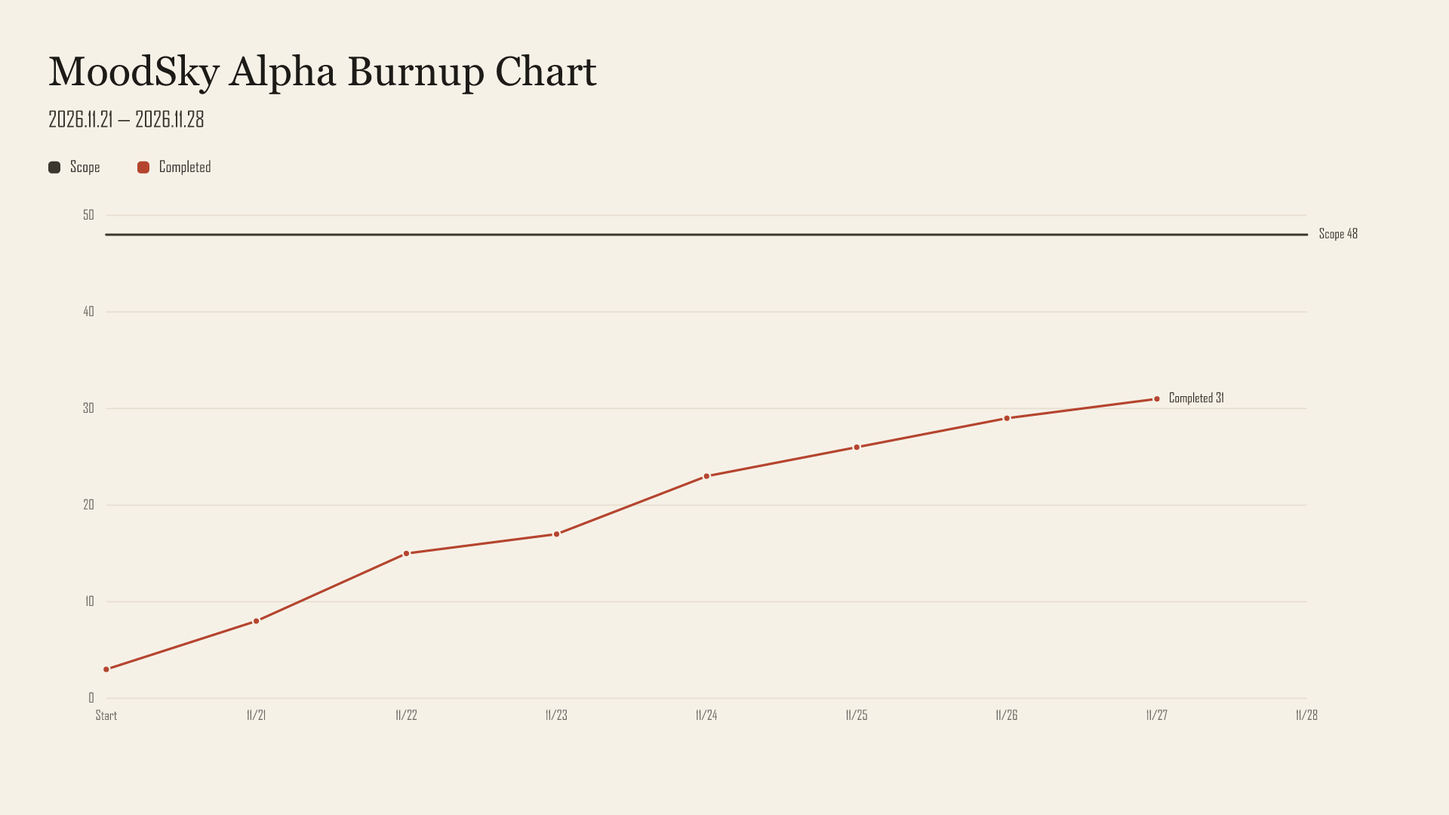
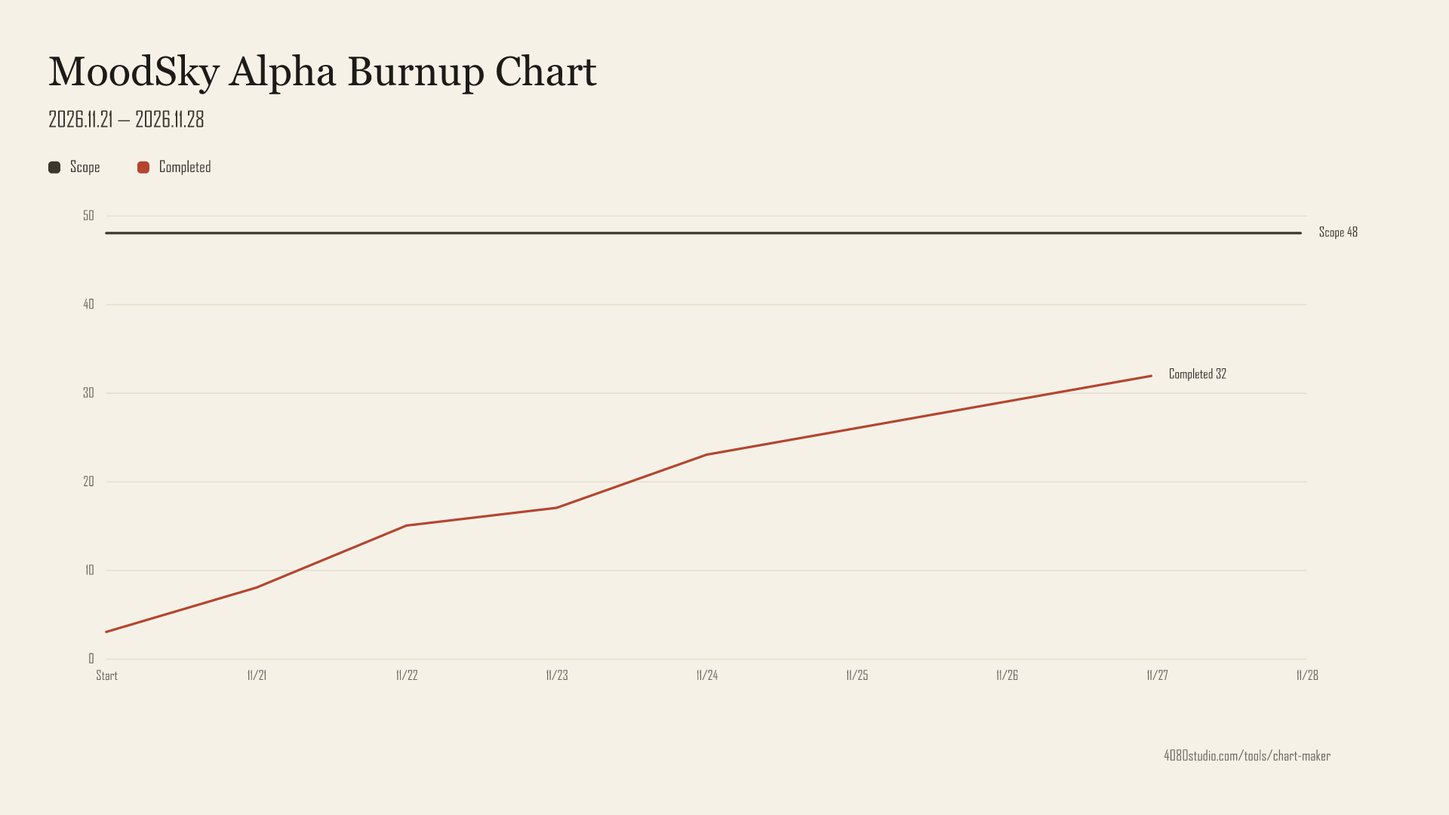
docs(alpha-h): 按 32/48 更新 C4 燃尽图、燃起图及对应文稿 (#268)

diff --git a/docs/alpha/xiang-hong/c4-20261127/log4-en.md b/docs/alpha/xiang-hong/c4-20261127/log4-en.md
@@ -4,7 +4,7 @@
 | ---------------- | ------------------------------------------------------------------------------------------------------------------------------------------------------------------------------------------ |
 | Course           | [2601_FZU-MU_SE](https://bbs.csdn.net/forums/2601_MU_SE_FZU)                                                                                                                               |
 | Assignment       | [Fifth Assignment — Alpha Sprint](https://bbs.csdn.net/topics/620611106)                                                                                                                   |
-| Reporting period | November 27–28, 2026; observations recorded through 2026-11-27T13:30:00+08:00                                                                                                              |
+| Reporting period | November 27–28, 2026; observations recorded through 2026-11-27T19:35:00+08:00                                                                                                              |
 | Objective        | Freeze a reproducible candidate, reconcile submitted evidence and prepare release and classroom handoffs                                                                                   |
 | References       | [Repository](https://github.com/HX-Jan/MoodSky), [frozen source](https://github.com/HX-Jan/MoodSky/tree/00c59a1af7ccd27e9c2ae4bc77f6b65fc66b117c), [release decision](release-decision.md) |
 
@@ -30,13 +30,13 @@ The client from this source was uploaded through the official WeChat Developer T
 
 ## 2. Evidence reconciliation and integration
 
-| Member / source                                                   | Concrete result                                                                                                                                                         | Remaining boundary                                                                                                                 |
-| ----------------------------------------------------------------- | ----------------------------------------------------------------------------------------------------------------------------------------------------------------------- | ---------------------------------------------------------------------------------------------------------------------------------- |
-| Junhan Huang, [#257](https://github.com/HX-Jan/MoodSky/pull/257)  | Fourteen campus regression rows, pagination and export/cleanup cross-checks; current maintainer rerun retains A=0, B=1 and public-place count=1 after completed cleanup | Caller review and target-cloud validation remain separate                                                                          |
-| Qizhen Cai, [#260](https://github.com/HX-Jan/MoodSky/pull/260)    | A personally operated November 26 local A/B run and fourteen cleanup scenarios, including eleven batches to `completed`                                                 | Local snapshot-to-remote mapping and final frozen-candidate opinion are still needed                                               |
-| Yuen Lin, [#264](https://github.com/HX-Jan/MoodSky/pull/264)      | 1730 tests, A/B16, XY64 and an independently assembled candidate from 00c59a1                                                                                           | Submitted as a precheck; final freeze confirmation and the completed testing article are still needed                              |
-| Qinghan Zhang, [#265](https://github.com/HX-Jan/MoodSky/pull/265) | C2/C3 page/service and boundary matrices, 94 tests, ten original native images and two campus round trips from 00c59a1                                                  | The preview and member package use `enabled`; the frozen candidate is `closed`, so final same-mode C4 confirmation is still needed |
-| Jiawei Fang, [#254](https://github.com/HX-Jan/MoodSky/pull/254)   | Early task/account regression, external checklist and summary draft                                                                                                     | The PR remains Draft; final same-build confirmation is missing                                                                     |
+| Member / source                                                   | Concrete result                                                                                                                                                                                | Remaining boundary                                                                                                                 |
+| ----------------------------------------------------------------- | ---------------------------------------------------------------------------------------------------------------------------------------------------------------------------------------------- | ---------------------------------------------------------------------------------------------------------------------------------- |
+| Junhan Huang, [#257](https://github.com/HX-Jan/MoodSky/pull/257)  | Fourteen campus regression rows, pagination and export/cleanup cross-checks; current maintainer rerun retains A=0, B=1 and public-place count=1 after completed cleanup                        | Caller review and target-cloud validation remain separate                                                                          |
+| Qizhen Cai, [#260](https://github.com/HX-Jan/MoodSky/pull/260)    | A personally operated November 26 local A/B run and fourteen cleanup scenarios, including eleven batches to `completed`                                                                        | Local snapshot-to-remote mapping and final frozen-candidate opinion are still needed                                               |
+| Yuen Lin, [#264](https://github.com/HX-Jan/MoodSky/pull/264)      | 1730 tests, A/B16, XY64 and an independently assembled candidate from 00c59a1                                                                                                                  | Submitted as a precheck; final freeze confirmation and the completed testing article are still needed                              |
+| Qinghan Zhang, [#265](https://github.com/HX-Jan/MoodSky/pull/265) | C2/C3 page/service and boundary matrices, 94 tests, ten original native images and two campus round trips from 00c59a1                                                                         | The preview and member package use `enabled`; the frozen candidate is `closed`, so final same-mode C4 confirmation is still needed |
+| Jiawei Fang, [#254](https://github.com/HX-Jan/MoodSky/pull/254)   | 40 targeted tests and 1733 full-suite recheck on frozen `00c59a1/closed`, external checklist and summary draft (`ee86e6c4`, integrated via [#267](https://github.com/HX-Jan/MoodSky/pull/267)) | Qizhen/Cai independent reviews, Jiawei's personal C2–C4 hours/confirmation and external cloud/device checks remain pending         |
 
 The maintainer found a reporting defect in the campus evidence generator: some cases were labelled PASS before their outcome was asserted, and cleanup did not require the terminal state. The generator now checks each recorded result, the exact permission refusal and completed cleanup. Three negative regression tests reject successful guest access, leaked account history or incorrect pagination, and incomplete cleanup or the wrong error code. It also records its actual generation time and source instead of a fixed historical date. Member logs remain attributed to their original executions.
 
@@ -66,15 +66,15 @@ For C4, the owner's candidate manifest matches Yuen's independently submitted ma
 
 ![Figure 5. MoodSky Alpha burnup chart](images/01-burnup.png)
 
-**Figure 5.** The scope is 48 period deliverables. Complete submissions are counted on their actual submission date, including early work; waiting for review does not remove a submitted result. Three deliveries were already submitted on November 20. November 21 adds five and November 22 adds seven. The cumulative total is 31 at this cutoff; November 28 actual values are blank.
+**Figure 5.** The scope is 48 period deliverables. Complete submissions are counted on their actual submission date, including early work; waiting for review does not remove a submitted result. Three deliveries were already submitted on November 20. November 21 adds five and November 22 adds seven. The cumulative total is 32 at this cutoff; November 28 actual values are blank.
 
 <!-- FIGURE 6: Insert images/04-burndown.png here. -->
 
 ![Figure 6. MoodSky Alpha burndown chart](images/04-burndown.png)
 
-**Figure 6.** Remaining deliverables equal 48 minus complete submissions, giving 17 at the current cutoff. The dashed ideal line is a reference schedule. Both charts use the same dated submission ledger and were exported from 4080 Studio; their interiors contain only chart labels, dates and statistics.
+**Figure 6.** Remaining deliverables equal 48 minus complete submissions, giving 16 at the current cutoff. The dashed ideal line is a reference schedule. Both charts use the same dated submission ledger and were exported from 4080 Studio; their interiors contain only chart labels, dates and statistics.
 
-Cai's cleanup evidence is one additional complete submission, received in [#260](https://github.com/HX-Jan/MoodSky/pull/260) at **16:27:09 Beijing time on November 26**. Two further complete submissions are Qinghan's C2 and C3 results, received in [#265](https://github.com/HX-Jan/MoodSky/pull/265) at **13:18:07 Beijing time on November 27**. These results are counted on November 27, rather than their planned period dates. Qinghan's C4 material stays partial because it uses an enabled-mode candidate instead of the frozen closed-mode package. Cai's folder is named C4, but its content supplies the previously missing C3 cleanup result, so it is counted once under C3. The earlier execution time is not substituted for the submission receipt. Yuen's new precheck and the current maintainer preparation are recorded as partial deliveries until their remaining deliverables are supplied. The twenty-four independent acceptance units use a separate ledger.
+Cai's cleanup evidence is one additional complete submission, received in [#260](https://github.com/HX-Jan/MoodSky/pull/260) at **16:27:09 Beijing time on November 26**. Three complete submissions are recorded on November 27: Qinghan's C2 and C3 results received in [#265](https://github.com/HX-Jan/MoodSky/pull/265) at **13:18:07 Beijing time**, and Jiawei's C4-JF frozen-candidate recheck (`ee86e6c4`, integrated via [#267](https://github.com/HX-Jan/MoodSky/pull/267)) received in [#254](https://github.com/HX-Jan/MoodSky/pull/254) at **18:15:33 Beijing time**. These results are counted on their actual receipt dates rather than their planned period dates. Qinghan's C4 material stays partial because it uses an enabled-mode candidate instead of the frozen closed-mode package. Cai's folder is named C4, but its content supplies the previously missing C3 cleanup result, so it is counted once under C3. The earlier execution time is not substituted for the submission receipt. Yuen's new precheck and the current maintainer preparation are recorded as partial deliveries until their remaining deliverables are supplied. The twenty-four independent acceptance units use a separate ledger.
 
 ## 5. Release conditions and next steps
 

diff --git a/docs/alpha/xiang-hong/c4-20261127/summary-en.md b/docs/alpha/xiang-hong/c4-20261127/summary-en.md
@@ -15,7 +15,7 @@ The sprint runs from November 21 to November 28. The plan assigns twelve members
 
 The current product candidate is 0.5.3 / `00c59a1af7ccd27e9c2ae4bc77f6b65fc66b117c`. It retains seven weather choices, private record/review flows, right-side campus selection and explicit task completion. The candidate keeps task mode closed and new campus writes paused. After phone-number capability proved unavailable for this app, WeChat identity login with first-use registration became the selected route. Explicit empty-account re-registration preserves the deletion boundary.
 
-At this cutoff, 31 of the 48 period deliverables have been submitted completely, leaving 17 incomplete or missing. This measures submitted artifacts, not independent acceptance or production availability. Early submissions are assigned to their actual dates. The separate acceptance ledger retains real reviewer decisions and external gaps.
+At this cutoff, 32 of the 48 period deliverables have been submitted completely, leaving 16 incomplete or missing. This measures submitted artifacts, not independent acceptance or production availability. Early submissions are assigned to their actual dates. The separate acceptance ledger retains real reviewer decisions and external gaps.
 
 ![MoodSky Alpha burnup chart](images/01-burnup.png)
 
@@ -31,20 +31,20 @@ The independently assembled C4 manifest matches the owner's package. The client 
 
 The table below records evidenced work and explicitly outstanding personal input. It does not assign invented hours or first-person reflections.
 
-| Member        | Verified contribution source                                                                                              | Still needed                                                                                                         |
-| ------------- | ------------------------------------------------------------------------------------------------------------------------- | -------------------------------------------------------------------------------------------------------------------- |
-| Xiang Hong    | Candidate freeze; four reviewed member increments; package reproduction; evidence-tool correction and handoff manuscripts | Actual hours and owner-confirmed personal reflection                                                                 |
-| Yifan Ji      | Record/recovery/account-switch evidence; Yuen's explicit local acceptance                                                 | Shared four-view C3 comparison, frozen-source confirmation and personal summary/hours                                |
-| Zhifeng Dai   | Four-view C1–C3 results and early C4 demo/summary material                                                                | Final 00c59a1 confirmation and member-confirmed reflection/hours                                                     |
-| Linghan Chen  | Login/share/file branches and early C4 material                                                                           | Final WeChat-only entry confirmation, actual file delivery and personal summary/hours                                |
-| Jiaqi Zhu     | C1 visual work and original media                                                                                         | C2–C4 issue disposition, final media and personal summary/hours                                                      |
-| Qinghan Zhang | PR265: C2/C3 matrices, 94 tests, ten native images, two campus round trips and summary facts                              | Closed-mode candidate confirmation, standard native suite, designated feedback and member-confirmed reflection/hours |
-| Junhan Huang  | PR257: fourteen campus rows and export/cleanup cross-check                                                                | Review of the tool correction, final service confirmation and personal summary/hours                                 |
-| Jiawei Fang   | C2/C3 reports and PR254's early C4 partial delivery and summary draft                                                     | Final mode/service/page comparison, actual C2–C4 hours and confirmation                                              |
-| Qizhen Chen   | Shared task flows, November 24 native media, C4 precheck and summary draft                                                | Frozen closed-mode route checks and member-confirmed summary/hours                                                   |
-| Xiang Yu      | Two export formats, 64 access checks and redacted requests                                                                | Own C3 cleanup and final C4 delivery, summary and actual hours                                                       |
-| Yuen Lin      | PR264: 1730 tests, A/B16, XY64 and independently assembled candidate                                                      | Freeze confirmation, final testing article and personal summary/hours                                                |
-| Qizhen Cai    | PR260: personally operated November 26 cleanup/A-B runs and scope-draft opinion                                           | Snapshot mapping, final per-feature opinion and personal summary/hours                                               |
+| Member        | Verified contribution source                                                                                                            | Still needed                                                                                                         |
+| ------------- | --------------------------------------------------------------------------------------------------------------------------------------- | -------------------------------------------------------------------------------------------------------------------- |
+| Xiang Hong    | Candidate freeze; four reviewed member increments; package reproduction; evidence-tool correction and handoff manuscripts               | Actual hours and owner-confirmed personal reflection                                                                 |
+| Yifan Ji      | Record/recovery/account-switch evidence; Yuen's explicit local acceptance                                                               | Shared four-view C3 comparison, frozen-source confirmation and personal summary/hours                                |
+| Zhifeng Dai   | Four-view C1–C3 results and early C4 demo/summary material                                                                              | Final 00c59a1 confirmation and member-confirmed reflection/hours                                                     |
+| Linghan Chen  | Login/share/file branches and early C4 material                                                                                         | Final WeChat-only entry confirmation, actual file delivery and personal summary/hours                                |
+| Jiaqi Zhu     | C1 visual work and original media                                                                                                       | C2–C4 issue disposition, final media and personal summary/hours                                                      |
+| Qinghan Zhang | PR265: C2/C3 matrices, 94 tests, ten native images, two campus round trips and summary facts                                            | Closed-mode candidate confirmation, standard native suite, designated feedback and member-confirmed reflection/hours |
+| Junhan Huang  | PR257: fourteen campus rows and export/cleanup cross-check                                                                              | Review of the tool correction, final service confirmation and personal summary/hours                                 |
+| Jiawei Fang   | C2/C3 reports and PR254 (`ee86e6c4`, integrated via PR267) C4 40/1733 recheck on `00c59a1/closed`, external checklist and summary draft | Qizhen/Cai independent reviews, actual C2–C4 hours and confirmation                                                  |
+| Qizhen Chen   | Shared task flows, November 24 native media, C4 precheck and summary draft                                                              | Frozen closed-mode route checks and member-confirmed summary/hours                                                   |
+| Xiang Yu      | Two export formats, 64 access checks and redacted requests                                                                              | Own C3 cleanup and final C4 delivery, summary and actual hours                                                       |
+| Yuen Lin      | PR264: 1730 tests, A/B16, XY64 and independently assembled candidate                                                                    | Freeze confirmation, final testing article and personal summary/hours                                                |
+| Qizhen Cai    | PR260: personally operated November 26 cleanup/A-B runs and scope-draft opinion                                                         | Snapshot mapping, final per-feature opinion and personal summary/hours                                               |
 
 Existing individual summary drafts from Zhifeng, Linghan, Jiawei and Qizhen Chen remain attributed to their original authors and dates. Their final confirmations and actual hours are not inferred from the drafts. The remaining members' reflections will be inserted from actual submissions. The record of work distribution uses delivered development, testing, design and review artifacts; PR count alone is not a workload measure.
 

diff --git a/docs/alpha/xiang-hong/c4-20261127/defense-and-demo.md b/docs/alpha/xiang-hong/c4-20261127/defense-and-demo.md
@@ -2,18 +2,18 @@
 
 冻结源`00c59a1af7ccd27e9c2ae4bc77f6b65fc66b117c`，0.5.3 / closed / 打卡暂停 / 手机号关闭。以下是可制作PPT的逐页事实及讲稿，不是已经完成的PPT或现场演练记录；课堂时长与上传要求按班级通知核对。
 
-| 页  | 投影片内容                       | 可直接使用的讲解与素材                                                                                                      |
-| --- | -------------------------------- | --------------------------------------------------------------------------------------------------------------------------- |
-| 1   | MoodSky — Alpha Sprint           | 11/21–28，私人天气记录；本轮主线为恢复、隔离、整合及可追溯候选                                                              |
-| 2   | Planned scope / actual delivery  | 24独立验收单元、48周期交付；31项完整提交、部分与未收分列，不把提交当验收                                                    |
-| 3   | Progress                         | 使用images/01-burnup.png及04-burndown.png；20日提前3，21新增5、22新增7，26补蔡清理后29，27截至截点无新增完整项，28留空      |
-| 4   | Current product                  | 使用27日微信登录原图，说明首次自动注册；拒绝同意可浏览；手机号不可开放后关闭入口                                            |
-| 5   | Records / tasks / campus         | 七天气、保存恢复、跨页后显式完成；右侧选这里保留。候选任务closed，不现场声称enabled链路已开放                               |
-| 6   | Testing                          | 冻结源码1730由Yuen实测；本轮验证工具新增3反例后整合树1733。AB16、XY64、生命周期14/137为分别执行的覆盖，不相加称独立总测试数 |
-| 7   | Reproducibility and integration  | 29b31dd旧包用旧提交脚本精确复现；711deb7e当前manifest与Yuen独立装配一致；只取成员净增量保留新界面                           |
-| 8   | Open conditions / next iteration | 最终指定复核、两个微信真机、文件实际送达、真实维护及平台指引/UGC；列主责和通过证据                                          |
-| 9   | Team contributions               | 使用member-summary-intake.csv的客观贡献；个人感想与工时只使用本人确认，不把请求当已复核                                     |
-| 10  | Delivery links                   | 仓库冻结提交、候选清单、实际博客链接；正式体验/公开状态按回执，预备录屏仅在实际完成后加入                                   |
+| 页  | 投影片内容                       | 可直接使用的讲解与素材                                                                                                                   |
+| --- | -------------------------------- | ---------------------------------------------------------------------------------------------------------------------------------------- |
+| 1   | MoodSky — Alpha Sprint           | 11/21–28，私人天气记录；本轮主线为恢复、隔离、整合及可追溯候选                                                                           |
+| 2   | Planned scope / actual delivery  | 24独立验收单元、48周期交付；32项完整提交、部分与未收分列，不把提交当验收                                                                 |
+| 3   | Progress                         | 使用images/01-burnup.png及04-burndown.png；20日提前3，21新增5、22新增7，26补蔡清理后29，27新增QH C2/C3与JF C4共3项至32（剩余16），28留空 |
+| 4   | Current product                  | 使用27日微信登录原图，说明首次自动注册；拒绝同意可浏览；手机号不可开放后关闭入口                                                         |
+| 5   | Records / tasks / campus         | 七天气、保存恢复、跨页后显式完成；右侧选这里保留。候选任务closed，不现场声称enabled链路已开放                                            |
+| 6   | Testing                          | 冻结源码1730由Yuen实测；本轮验证工具新增3反例后整合树1733。AB16、XY64、生命周期14/137为分别执行的覆盖，不相加称独立总测试数              |
+| 7   | Reproducibility and integration  | 29b31dd旧包用旧提交脚本精确复现；711deb7e当前manifest与Yuen独立装配一致；只取成员净增量保留新界面                                        |
+| 8   | Open conditions / next iteration | 最终指定复核、两个微信真机、文件实际送达、真实维护及平台指引/UGC；列主责和通过证据                                                       |
+| 9   | Team contributions               | 使用member-summary-intake.csv的客观贡献；个人感想与工时只使用本人确认，不把请求当已复核                                                  |
+| 10  | Delivery links                   | 仓库冻结提交、候选清单、实际博客链接；正式体验/公开状态按回执，预备录屏仅在实际完成后加入                                                |
 
 ## 建议3分钟演示及可用条件
 

diff --git a/docs/alpha/xiang-hong/c4-20261127/README.md b/docs/alpha/xiang-hong/c4-20261127/README.md
@@ -6,8 +6,8 @@
 
 - [候选与逐功能结论](release-decision.md)：固定`00c59a1af7ccd27e9c2ae4bc77f6b65fc66b117c`、closed/打卡暂停/手机号关闭、每项主责及补验条件。
 - [来源与C3精确复现](candidate-provenance.md)、[冻结清单](evidence/frozen-manifest.json)、[上传回执](evidence/client-upload.json)：Yuen同包711deb7e一致，193项指纹通过；开发版上传不等于体验/审核/公开。
-- [PR取舍](pr-intake.md)、[逐文件字节审计](file-adoption-audit.json)：257/260/264/265净增量，254 Draft和247独立暂缓；工具修正不覆盖成员原报告。
-- [24项验收台账](acceptance-gaps.csv)、[48项实际提交](submission-audit-48.csv)、[31条时间事件](submission-events.csv)、[12人四期矩阵](member-matrix.csv)。本轮新增C3-C按26日16:27:09提交时点计算；C4未齐不抢计。
+- [PR取舍](pr-intake.md)、[逐文件字节审计](file-adoption-audit.json)：257/260/264/265/254净增量，247继续独立暂缓；工具修正不覆盖成员原报告。
+- [24项验收台账](acceptance-gaps.csv)、[48项实际提交](submission-audit-48.csv)、[32条时间事件](submission-events.csv)、[12人四期矩阵](member-matrix.csv)。本轮新增C3-C按26日16:27:09记C3一次，C2/C3-QH按27日13:18:07记，C4-JF按27日18:15:33记；其余C4未齐不抢计。
 - [英文日志4与准确图位](log4-en.md)、[英文总结事实稿](summary-en.md)、[英文合集稿](collection-en.md)、[测试文章交接](testing-handoff.md)、[12人总结收件表](member-summary-intake.csv)。尚未上传CSDN。
 - [答辩逐页内容与演示脚本](defense-and-demo.md)、[文章/文件/平台/课程页实际提交清单](submission-checklist.csv)。PPT文件与完整演练未执行，按课堂通知接续。
 
@@ -15,10 +15,10 @@
 
 冻结产品源1730项由Yuen在PR264实际提交；本轮工具新增3项反例，整合树完整1733/1733、0失败/取消/跳过。AB16、XY64、生命周期14场景137断言、生产离线8组和校园14行/清理交叉核对均本地通过。首次lint缺大括号失败留档，补正后完整复跑，不隐去失败。原生成器场景日期保留，新增工具输出用实际生成时间与真实Git状态。
 
-本轮不改miniprogram/cloudfunctions/database，产品树与冻结源一致。两张27日登录原图和两张Qinghan校园原图原字节复制；4080原生SVG另存，PNG仅由其直接栅格化，不重画曲线、不加任务说明。图表截至2026-11-27T13:30:00+08:00，27日是进行中观测，28日实际留空；31/48属于提交而非24项验收。
+本轮不改miniprogram/cloudfunctions/database，产品树与冻结源一致。两张27日登录原图和两张Qinghan校园原图原字节复制；4080原生SVG另存，PNG仅由其直接栅格化，不重画曲线、不加任务说明。图表截至2026-11-27T19:35:00+08:00，27日是进行中观测，28日实际留空；32/48属于提交而非24项验收。
 
 Yuen请确认本次冻结及工具新增反例、最终测试文章；蔡奇真请补快照映射并对00c59a1逐功能反馈。全员按收件表补本人总结与实际工时；发布人与洪翔按清单记录真实体验/审核/公开和课程提交。11/29 23:59为作业截止，不能倒填旧博客发布时间或冒作已提交。
 
-## 18:15 跟进整合（PR #254）
+## 18:15 跟进整合（PR #254）与图表更新
 
-2026-11-27 18:15 接收 Jiawei PR #254（固定 head `ee86e6c4c390081b1b0578d2f968b7f0afd2e7ed`，虽仍标 Draft 经负责人确认接收），详情见 [PR #254 整合记录](../../../reviews/2026-11-27-pr254-integration.md)。仅引入 11 份纯文档与测试证据文件，产品源码仍保持 `00c59a1` 未变；维护者独立复跑 40 项定向与 1733 项全量检查通过。`C4-JF` 已计入[48 项提交台账](submission-audit-48.csv)，当前完整提交更新为 **32/48**；本目录既有的 13:30 (+08:00) 截点 4080 图表（`images/01-burnup.png`、`images/04-burndown.png`）及英文稿（`log4-en.md`、`summary-en.md`）保留为 31/48 阶段快照，待后续统一刷新。PR #247 继续独立暂缓。
+2026-11-27 18:15 接收 Jiawei PR #254（固定 head `ee86e6c4c390081b1b0578d2f968b7f0afd2e7ed`，虽仍标 Draft 经负责人确认接收），已由 [PR #267](https://github.com/HX-Jan/MoodSky/pull/267) Squash 合并进 `main`（`b4f80b1a4aea98979a4f3e020b758eeb82cb564d`）并按替代关闭 `#254`，详情见 [PR #254 整合记录](../../../reviews/2026-11-27-pr254-integration.md)。仅引入 11 份纯文档与测试证据文件，产品源码仍保持 `00c59a1` 未变；维护者独立复跑 40 项定向与 1733 项全量检查通过。`C4-JF` 已计入[48 项提交台账](submission-audit-48.csv)，当前完整提交更新为 **32/48（剩余 16）**，并已从 4080 Studio 重新导出 `images/burndown.svg`、`images/burnup.svg` 及直接栅格化的 `04-burndown.png`、`01-burnup.png` 同步至 32/48；PR #247 继续独立暂缓。

diff --git a/docs/reviews/2026-11-27-pr254-integration.md b/docs/reviews/2026-11-27-pr254-integration.md
@@ -36,7 +36,7 @@
 
 - **提交后时间差说明**：成员提交的 [environment.txt](../alpha-sprint/jf/c4/evidence/environment.txt) 中记录 `evidence_time: 2026-11-27T18:20:00+08:00` 与 `evidence_head: 17706a39c539a8790da400040de238af5eb55f3f`，而提交 `ee86e6c4` 的提交时间为 `18:15:33+08:00`；原文件保留不改写，由维护者在整合工作树独立复跑核验。
 - **维护者独立复跑**：在基于最新 `main`（`db77ef6`）的隔离整合分支执行 `npm run cloud:prepare`、任务/账号/页面定向回归（`tests/week6-jf-task-modes.test.js`、`tests/week6-jf-account-boundaries.test.js`、`tests/week6-qc-task-flows.test.js`）**40/40 通过**（0 失败、0 跳过），并执行完整 `npm run check`（`lint`、`format:check`、`structure:check`、`docs:check`、`typecheck` 与 `npm test` **1733/1733 通过**，0 失败、0 取消、0 跳过）。
-- **台账与快照边界**：[48 项提交台账](../alpha/xiang-hong/c4-20261127/submission-audit-48.csv) 将 `C4-JF` 按 `2026-11-27T18:15:33+08:00` 记为完整提交，累计完整提交由 31/48 更新为 **32/48**。`docs/alpha/xiang-hong/c4-20261127/` 下既有 13:30 (+08:00) 截点导出的 4080 图表与英文阶段稿（`log4-en.md`、`summary-en.md`）保持 31/48 原快照不重画，待后续统一刷新。
+- **台账与快照边界**：[48 项提交台账](../alpha/xiang-hong/c4-20261127/submission-audit-48.csv) 将 `C4-JF` 按 `2026-11-27T18:15:33+08:00` 记为完整提交，累计完整提交由 31/48 更新为 **32/48（剩余 16）**。PR #254 整合改动已由 [PR #267](https://github.com/HX-Jan/MoodSky/pull/267) Squash 合并进 `main`（`b4f80b1a4aea98979a4f3e020b758eeb82cb564d`），PR #254 已按替代关闭；`docs/alpha/xiang-hong/c4-20261127/` 下 4080 图表与对应文稿亦已随同同步刷新至 32/48。
 - **仍待完成项**：
   1. `AS-JF01`、`AS-JF02` 在 [24 项验收台账](../alpha/xiang-hong/c4-20261127/acceptance-gaps.csv) 仍保持`待复核`；Qizhen Chen（页面/服务同构建反馈）与蔡奇真（账号边界独立意见）尚未回传。
   2. Jiawei Fang 的 C2–C4 本人实际工时与本人确认时间仍为`待本人填写`，不代填。
@@ -47,4 +47,4 @@
 
 - 本次整合仅新增本地合成测试记录、状态台账与外部待验清单；无新增用户信息字段、系统权限、SDK、采集行为、UGC、分享或数据生命周期逻辑改动。
 - 已核对引入日志 `c4-final-recheck.tap`、`full-check.txt` 与外部待验清单，仅含合成夹具与脱敏状态，无真实 `openid`、个人敏感信息或密钥。
-- 本次仅为本地分支整合与验证，未执行云端部署、数据库写入、微信上传或平台发布。
+- 整合PR [PR #267](https://github.com/HX-Jan/MoodSky/pull/267) 仅包含文档与测试证据合并（`b4f80b1a4aea98979a4f3e020b758eeb82cb564d`），未执行云端部署、数据库写入、微信上传或平台发布。

diff --git a/docs/collaboration/updates.md b/docs/collaboration/updates.md
@@ -1,6 +1,6 @@
 # 历史快照之后的收件与审查
 
-11月27日晚：[PR #254整合（C4-JF冻结候选复检）](../reviews/2026-11-27-pr254-integration.md)。按负责人确认接收仍标Draft的PR #254最新固定head `ee86e6c4`（18:15基于00c59a1/closed与main db77ef6推送，18:16 quality通过），原字节采用11份纯文档/证据文件；产品树`00c59a1`与`main`既有实现零改动、零回退。维护者在隔离分支复跑40项任务/账号/页面定向与1733项全量检查通过；`C4-JF`按18:15计入完整提交，48项提交台账更新为32/48（13:30截点4080图表与英文阶段稿保留31/48原快照）。PR #247继续暂缓；Qizhen/蔡奇真独立意见、Jiawei C2–C4工时确认及目标云/真机仍待，本次仅完成本地分支整合待登录后推送合并。
+11月27日晚：[PR #254整合（C4-JF冻结候选复检）与燃尽图更新](../reviews/2026-11-27-pr254-integration.md)。按负责人确认接收仍标Draft的PR #254最新固定head `ee86e6c4`（18:15基于00c59a1/closed与main db77ef6推送，18:16 quality通过），原字节采用11份纯文档/证据文件；产品树`00c59a1`与`main`既有实现零改动、零回退。维护者在隔离分支复跑40项任务/账号/页面定向与1733项全量检查通过；`C4-JF`按18:15计入完整提交，48项提交台账更新为32/48（剩余16），整合PR #267已Squash合并至`main`（`b4f80b1`）并关闭#254，4080 Studio燃尽图/燃起图与C4文稿已同步刷新至32/48。PR #247继续暂缓；Qizhen/蔡奇真独立意见、Jiawei C2–C4工时确认及目标云/真机仍待。
 
 11月27日：[C4-H收件、同包与交付](../alpha/xiang-hong/c4-20261127/README.md)。采用Junhan257、蔡奇真260、Yuen264及Qinghan265的固定净增量，原结果/日期保留；254 Draft及247保持独立。维护者修校园证据工具的PASS断言/完成态与写死来源，新增3反例，整合树1733通过。冻结产品00c59a1自身1730项与材料整合树分列；当前清单711deb7e与Yuen独立预核一致，旧包29b31dd已完整复现。蔡26日清理补件按16:27:09记C3一次，Qinghan27日13:18:07补C2/C3两项，累计31/48；24项独立意见与真实云/设备/平台不代签。日志4等为27日交付稿，28日期末和全员总结仍待。
 

diff --git a/docs/README.md b/docs/README.md
@@ -1,6 +1,6 @@
 # 文档导航
 
-11月27日晚：[PR #254 整合（C4-JF 冻结候选复检）](reviews/2026-11-27-pr254-integration.md)。按负责人确认接收仍标 Draft 的 PR #254（`ee86e6c4`，11 份纯文档与证据文件原字节采用），产品源码保持 `00c59a1` 零回退、零改动；维护者复跑 40 项定向与 1733 项全量检查通过，完整提交台账更新为 32/48（13:30 截点 4080 图表与英文阶段稿保留 31/48 原快照），PR #247 继续暂缓，待登录后推送合并。
+11月27日晚：[PR #254 整合（C4-JF 冻结候选复检）与燃尽图更新](reviews/2026-11-27-pr254-integration.md)。按负责人确认接收仍标 Draft 的 PR #254（`ee86e6c4`，11 份纯文档与证据文件原字节采用），已通过 [PR #267](https://github.com/HX-Jan/MoodSky/pull/267) 合并进 `main`（`b4f80b1`）并关闭 `#254`，产品源码保持 `00c59a1` 零回退、零改动；完整提交台账及 4080 Studio 燃尽图/燃起图已同步更新为 **32/48（剩余 16）**，PR #247 继续暂缓。
 
 11月27日：[洪翔C4本地交付与候选冻结](alpha/xiang-hong/c4-20261127/README.md)。固定00c59a1 / closed / 打卡暂停 / 手机号关闭；接收257、260、264、265净增量，当前候选与Yuen独立清单一致，C3原指纹用旧提交脚本精确复现。新增3项证据反例后整合树1733通过；英文日志4、总结/合集稿、24项验收与48项提交台账、答辩内容及提交清单已备。完整提交31/48按实际日期计，28日期末、本人总结工时、最终独立意见及外部验收待回传，不发布CSDN。
 
